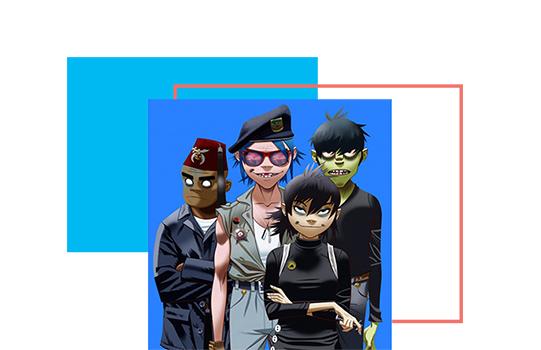
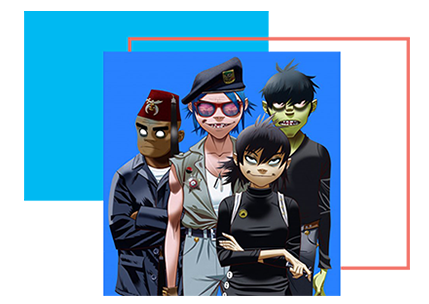
cabios de columnas
everything

diff --git a/novedadesmain.html b/novedadesmain.html
@@ -150,109 +150,121 @@
         Últimas novedades de nuestros artistas, nuestra gente y nuestro espectáculo. <br> Enterate de todo lo que tiene Odisea En Las Calles para ofrecer!
         </h6>
         <div class="nuestroamigodivider"></div>
+        </div>
 
      <!-- BLOG START -->
     <!--  onepage -->
- <div id="ticket">
-      <div class="container-fluid">
-        <div class="row">
-            <div class="col-6">
-            <div class="feature-thumb wow fadeIn" data-wow-delay="1s">
-             <div class="parent">
-             <div class="child1">
-              <img class="infophoto" src="novedades/blog1.png" alt="">
-              </div>
-              </div>
+    <div id="experiencia" class="section-padding">
+    <div class="container"> 
+ <div class="section-header text-center">
+         <div class="col-lg-10 col-sm-6 align-center">
+             <div class="wow fadeIn " data-wow-delay="1s">
+                 <div class="parent">
+                     <div class="child1">
+                         <img class="blogimg" src="novedades/blog2.png" alt="">
+                     </div>
+                 </div>
+             </div>
+         </div>
+     <div class="row">
+         <div class="col-lg-10 align-center">
+            <div class="title-hl wow fadeInLeft" data-wow-delay="0.3s">
+                <h1>ILLYA KURYAKI ILUMINÓ EL LUNA PARK - ANTESALAS DE ODISEA</h1>
+                <div class="intermitentlineorange wow fadeInRight" data-wow-delay="1s"></div>
+                   <div class="nuestroamigodivider"></div>
+                    <p class="wow fadeIn " data-wow-delay="1s">
+                        Por la medianoche, en los alrededores del luna park, y tras un temporal que duró casi todo el sabado, la ciudad lucía fría. <br> Como si el apocalipsis hubiera ocurrido, Illya Kuryaki and the Valderramas presentaban su nuevo disco de estudio, ante una pequeña multitud que aportó el marco necesario...
+                    </p>
+                    <div class="nuestroamigodivider"></div>
+                    <a href="#"> <img src="novedades/vermasbutton.png" alt=""> </a>
+                    
+                
             </div>
-          </div> 
-          
-          <div>
-         
-          <div class="text-wrapper">
-              <div class="col-6">
-                <div class="title-hl wow fadeInLeft" data-wow-delay="0.3s">
-                   <h1>ARTISTA ODISEA: SPOTLIGHT UK CIRCUS <br></h1>
-                </div>
-                <div class="intermitentlineviolet wow fadeInLeft" wow-data-delay="1s"></div>
-                <p class="wow fadeInLeft" data-wow-delay="0.3s">Presentando Levante Dance Theatre por The Band. <br>Combina música, formas artísticas, circo y teatro físico. <br> Una experiencia encantadora que podremos presenciar en nuestro evento.
-            </p>
-              <div class="nuestroamigodivider"></div>
-               <a href="#" >
-               <img src="novedades/vermasbutton.png" alt=""></a>
-                <div class="row">
-                </div>
-              </div>
-            </div>
-        </div>
-      </div>
-    </div>
+             
+         </div>
+     </div>
+     
+ </div>
+  </div>
+   </div>
     <!-- end onepage -->
 
 
     <!-- twopage -->
-    
-      <div class="container-fluid">
-        <div class="row">
-          <div class="col-lg-6 ">
-            <div class="text-wrapper">
-              <div>
-                <div class="title-hl wow fadeInLeft" data-wow-delay="0.3s">
-                  <h1>ILLYA KURYAKI ILUMINÓ EL LUNA PARK JUSTO A ANTESALAS DE ODISEA EN LAS CALLES </h1></div>
-                  <div class="intermitentlineorange wow fadeInRight" wow-data-delay="1s"></div>
-                <p class="wow fadeIn" data-wow-delay="1">Por la medianoche, en los alrededores del Luna Park, y tras un temporal que duró casi todo el sábado, la ciudad lucía devastada, vacía, fría y húmeda, zombie. <br>Como si el apocalipsis hubiera ocurrido ahora, mientras los Illya Kuryaki and the Valderramas presentaban oficialmente su octavo disco de estudio, ante una pequeña multitud que aportó el marco necesario para que en el estadio renaciera el calor.
-            </p>
-              <div class="nuestroamigodivider"></div>
-               <a href="#"> <img src="novedades/vermasbutton.png" alt=""></a>
-                <div class="row">
+
+    <div id="experiencia" class="section-padding">
+    <div class="container"> 
+ <div class="section-header text-center">
+         <div class="col-lg-10 col-sm-6 align-center">
+             <div class="wow fadeIn " data-wow-delay="1s">
+                 <div class="parent">
+                     <div class="child1">
+                         <img class="blogimg" src="novedades/blog1.png" alt="">
+                     </div>
+                 </div>
+             </div>
+         </div>
+     <div class="row">
+         <div class="col-lg-10 align-center">
+            <div class="title-hl wow fadeInLeft" data-wow-delay="0.3s">
+                <h1>ARTISTA ODISEA: SPOTLIGHT UK CIRCUS</h1>
+                <div class="intermitentlineblue wow fadeInRight" data-wow-delay="1s"></div>
+                   <div class="nuestroamigodivider"></div>
+                    <p class="wow fadeIn " data-wow-delay="1s">
+                       Presentando Levante Dance Theatre por The Band. <br> Combina música, formas artísticas, circo 
+y teatro físico. <br>	
+Una experiencia encantadora que podremos presenciar en nuestro evento.
+                    </p>
+                    <div class="nuestroamigodivider"></div>
+                    <a href="#"> <img src="novedades/vermasbutton.png" alt=""> </a>
+                    
                 </div>
-              </div>
             </div>
-          </div>
-          <div class="col-lg-2">
-            <div class="feature-thumb wow fadeIn" data-wow-delay="1s">
-             <div class="parent">
-             <div class="child1">
-              <img class="blogimg" src="novedades/blog2.png" alt="">
-              </div>
-              </div>
-            </div>
-          </div>
-        </div>
-      </div>
-    
+             
+         </div>
+     </div>
+     
+ </div>
+  </div>
+   </div>
     <!-- twopage ends -->
+    
+    <div class="nuestroamigodivider"></div>
 
 
 <!-- threepage -->
-      <div class="container-fluid">
-        <div class="row">
-            <div class="col-4 text-center">
-            <div class="feature-thumb wow fadeIn" data-wow-delay="1s">
-             <div class="parent">
-             <div class="child1">
-              <img class="infophoto" src="novedades/blog3.png" alt="">
-              </div>
-              </div>
-            </div>
-          </div> 
-          </div>
-          
-         <div class="col-sm-3 col-md-5 wrapper">
-              <div>
-                <div class="title-hl wow fadeInLeft" data-wow-delay="0.3s">
-                   <h1>GORILLAZ PRESENTÓ NUEVO ÁLBUM: <br> THE NOW NOW</h1>
-                </div>
-                <div class="intermitentlineblue wow fadeInLeft" wow-data-delay="1s"></div>
-                <p class="wow fadeInLeft" data-wow-delay="0.3s">Con pocos colaboradores humanos celebridades, Los personajes icónicos de Gorillaz estan de nuevo en la rueda: <br> Un miembro de ellos pertenece al mundo de las chicas superpoderosas, dijo Damon Albarn. 
+     <div id="experiencia" class="section-padding">
+    <div class="container"> 
+ <div class="section-header text-center">
+         <div class="col-lg-5 col-sm-6 align-center">
+             <div class="wow fadeIn " data-wow-delay="1s">
+                 <div class="parent">
+                     <div class="child1">
+                         <img class="blogimg" src="novedades/blog3.png" alt="">
+                     </div>
+                 </div>
+             </div>
+         </div>
+     <div class="row">
+         <div class="col-lg-10 align-center">
+            <div class="title-hl wow fadeInLeft" data-wow-delay="0.3s">
+                <h1>GORILLAZ PRESENTÓ NUEVO ÁLBUM: <br> THE NOW NOW</h1>
+                <div class="intermitentlineviolet wow fadeInRight" data-wow-delay="1s"></div>
+                   <div class="nuestroamigodivider"></div>
+                    <p class="wow fadeInLeft" data-wow-delay="0.3s">Con pocos colaboradores humanos celebridades, Los personajes icónicos de Gorillaz estan de nuevo en la rueda: <br> Un miembro de ellos pertenece al mundo de las chicas superpoderosas, dijo Damon Albarn. 
             </p>
-              <div class="nuestroamigodivider"></div>
-               <a href="#" >
-               <img src="novedades/vermasbutton.png" alt=""></a>
-              </div>
+                    <div class="nuestroamigodivider"></div>
+                    <a href="#"> <img src="novedades/vermasbutton.png" alt=""> </a>
+                    
+                </div>
             </div>
-        </div>
-      
-    </div>
+             
+         </div>
+     </div>
+     
+ </div>
+  </div>
+   </div>
     <!-- threepage ends -->
 
 <div class="nuestroamigodivider"></div>

diff --git a/css/main.css b/css/main.css
@@ -1256,7 +1256,7 @@ textarea {
 }
 
 .socialmediacontainer {
-    margin-left: 400px;
+    margin-left: 200px;
     margin-top: 30px;
 }
 
@@ -1265,26 +1265,32 @@ textarea {
 }
 
 .intermitentlineblue {
-    margin-left: 15px;
+    margin-left: 300px;
     margin-bottom: 20px;
-    width: 800px;
+    width: 300px;
     height: 10px;
     background-color: #00b1eb;
-}
-
-.intermitentlineorange {
-    margin-left: 15px;
-    margin-bottom: 20px;
-    width: 850px;
-    height: 10px;
-    background-color: #f37267;
+    align-content: center;
     text-align: center;
 }
 
-.intermitentlineviolet {
-    margin-left: 15px;
+.intermitentlineorange {
+    margin-left: 300px;
     margin-bottom: 20px;
-    width: 800px;
+    width: 300px;
+    height: 10px;
+    background-color: #f37267;
+    text-align: center;
+    align-content: center;
+   
+}
+
+.intermitentlineviolet {
+    margin-left: 300px;
+    margin-bottom: 20px;
+    align-content: center;
+    text-align: center;
+    width: 300px;
     height: 10px;
     background-color: #542583;
 }
@@ -1328,7 +1334,7 @@ textarea {
 /* end */
 
 .referencias {
-    margin-left: 200px;
+    margin-left: 100px;
 }
 
 /* Footer Area Start */
@@ -1503,11 +1509,24 @@ textarea {
     .paraquienes {
         margin-right: 50px;
     }
+    
+    .blogimg {
+        display: block;
+        width: 100%;
+    }
 }
 
 @media (min-width:480px) {
     
     .contact-form-container {
-        margin-left: 700px;
+        margin-left: 450px;
+    }
+    
+    .odisealogo {
+        width: 15px;;
+    }
+    
+    .blogimg {
+        width: 100%;
     }
 }
